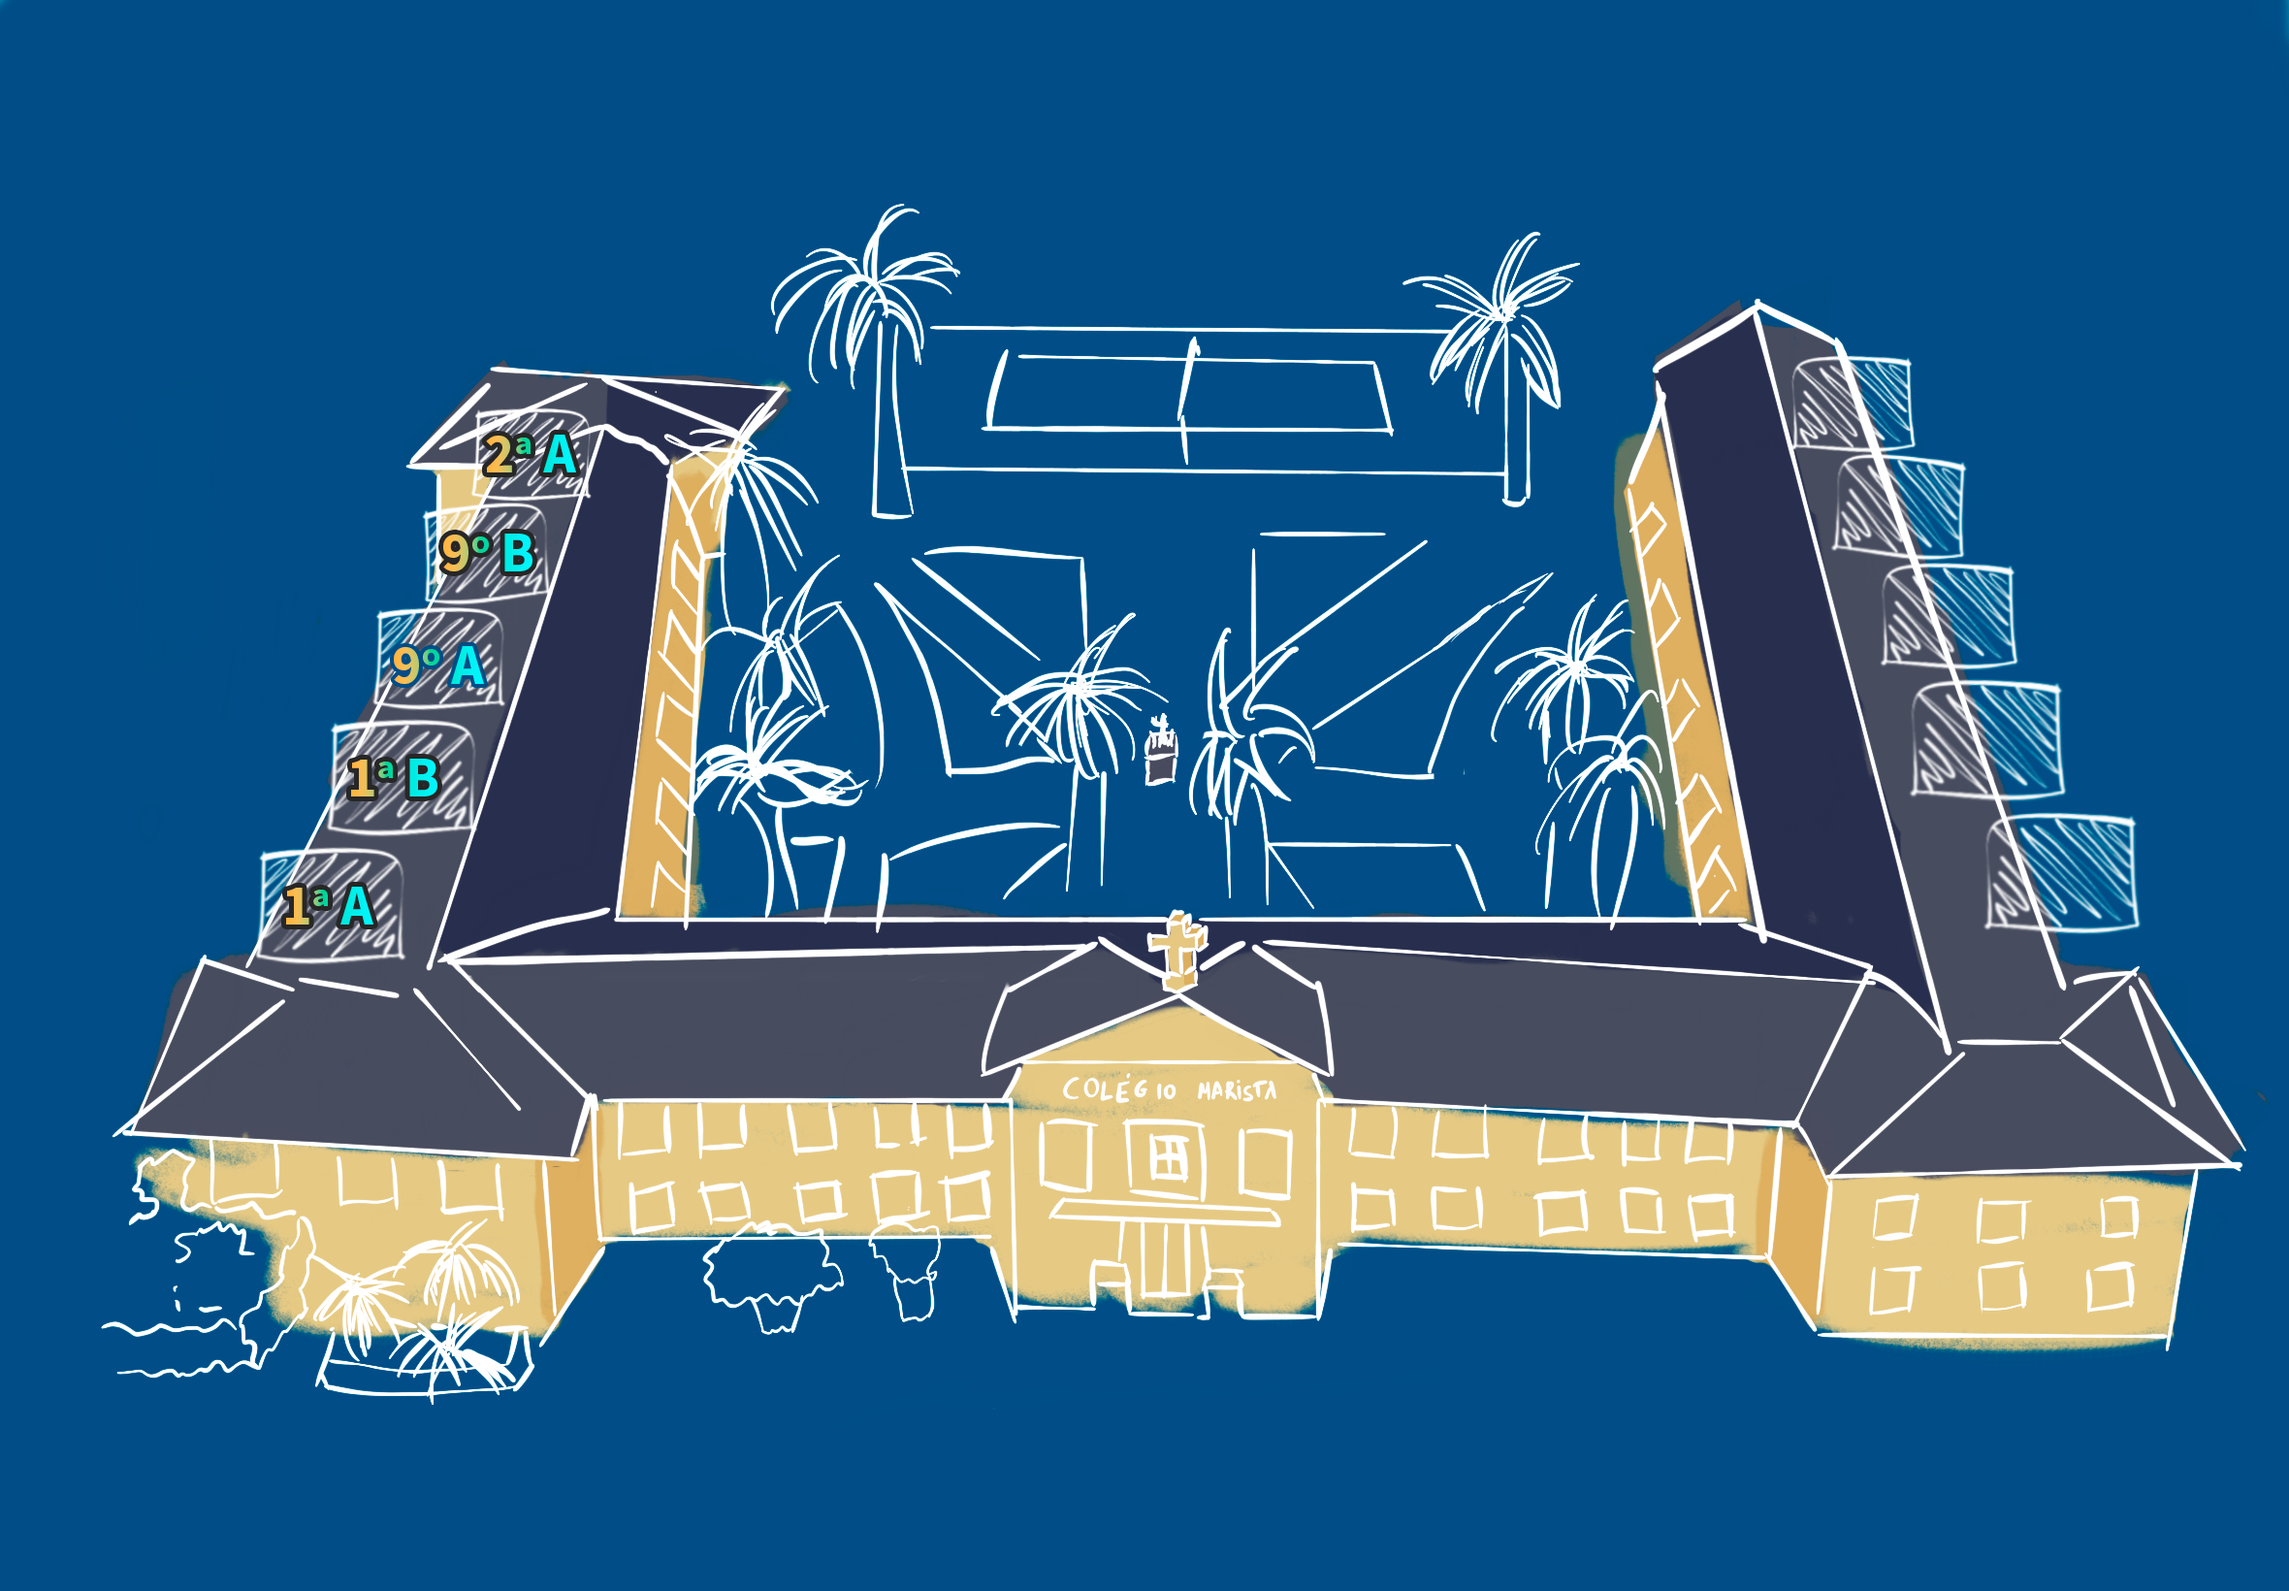
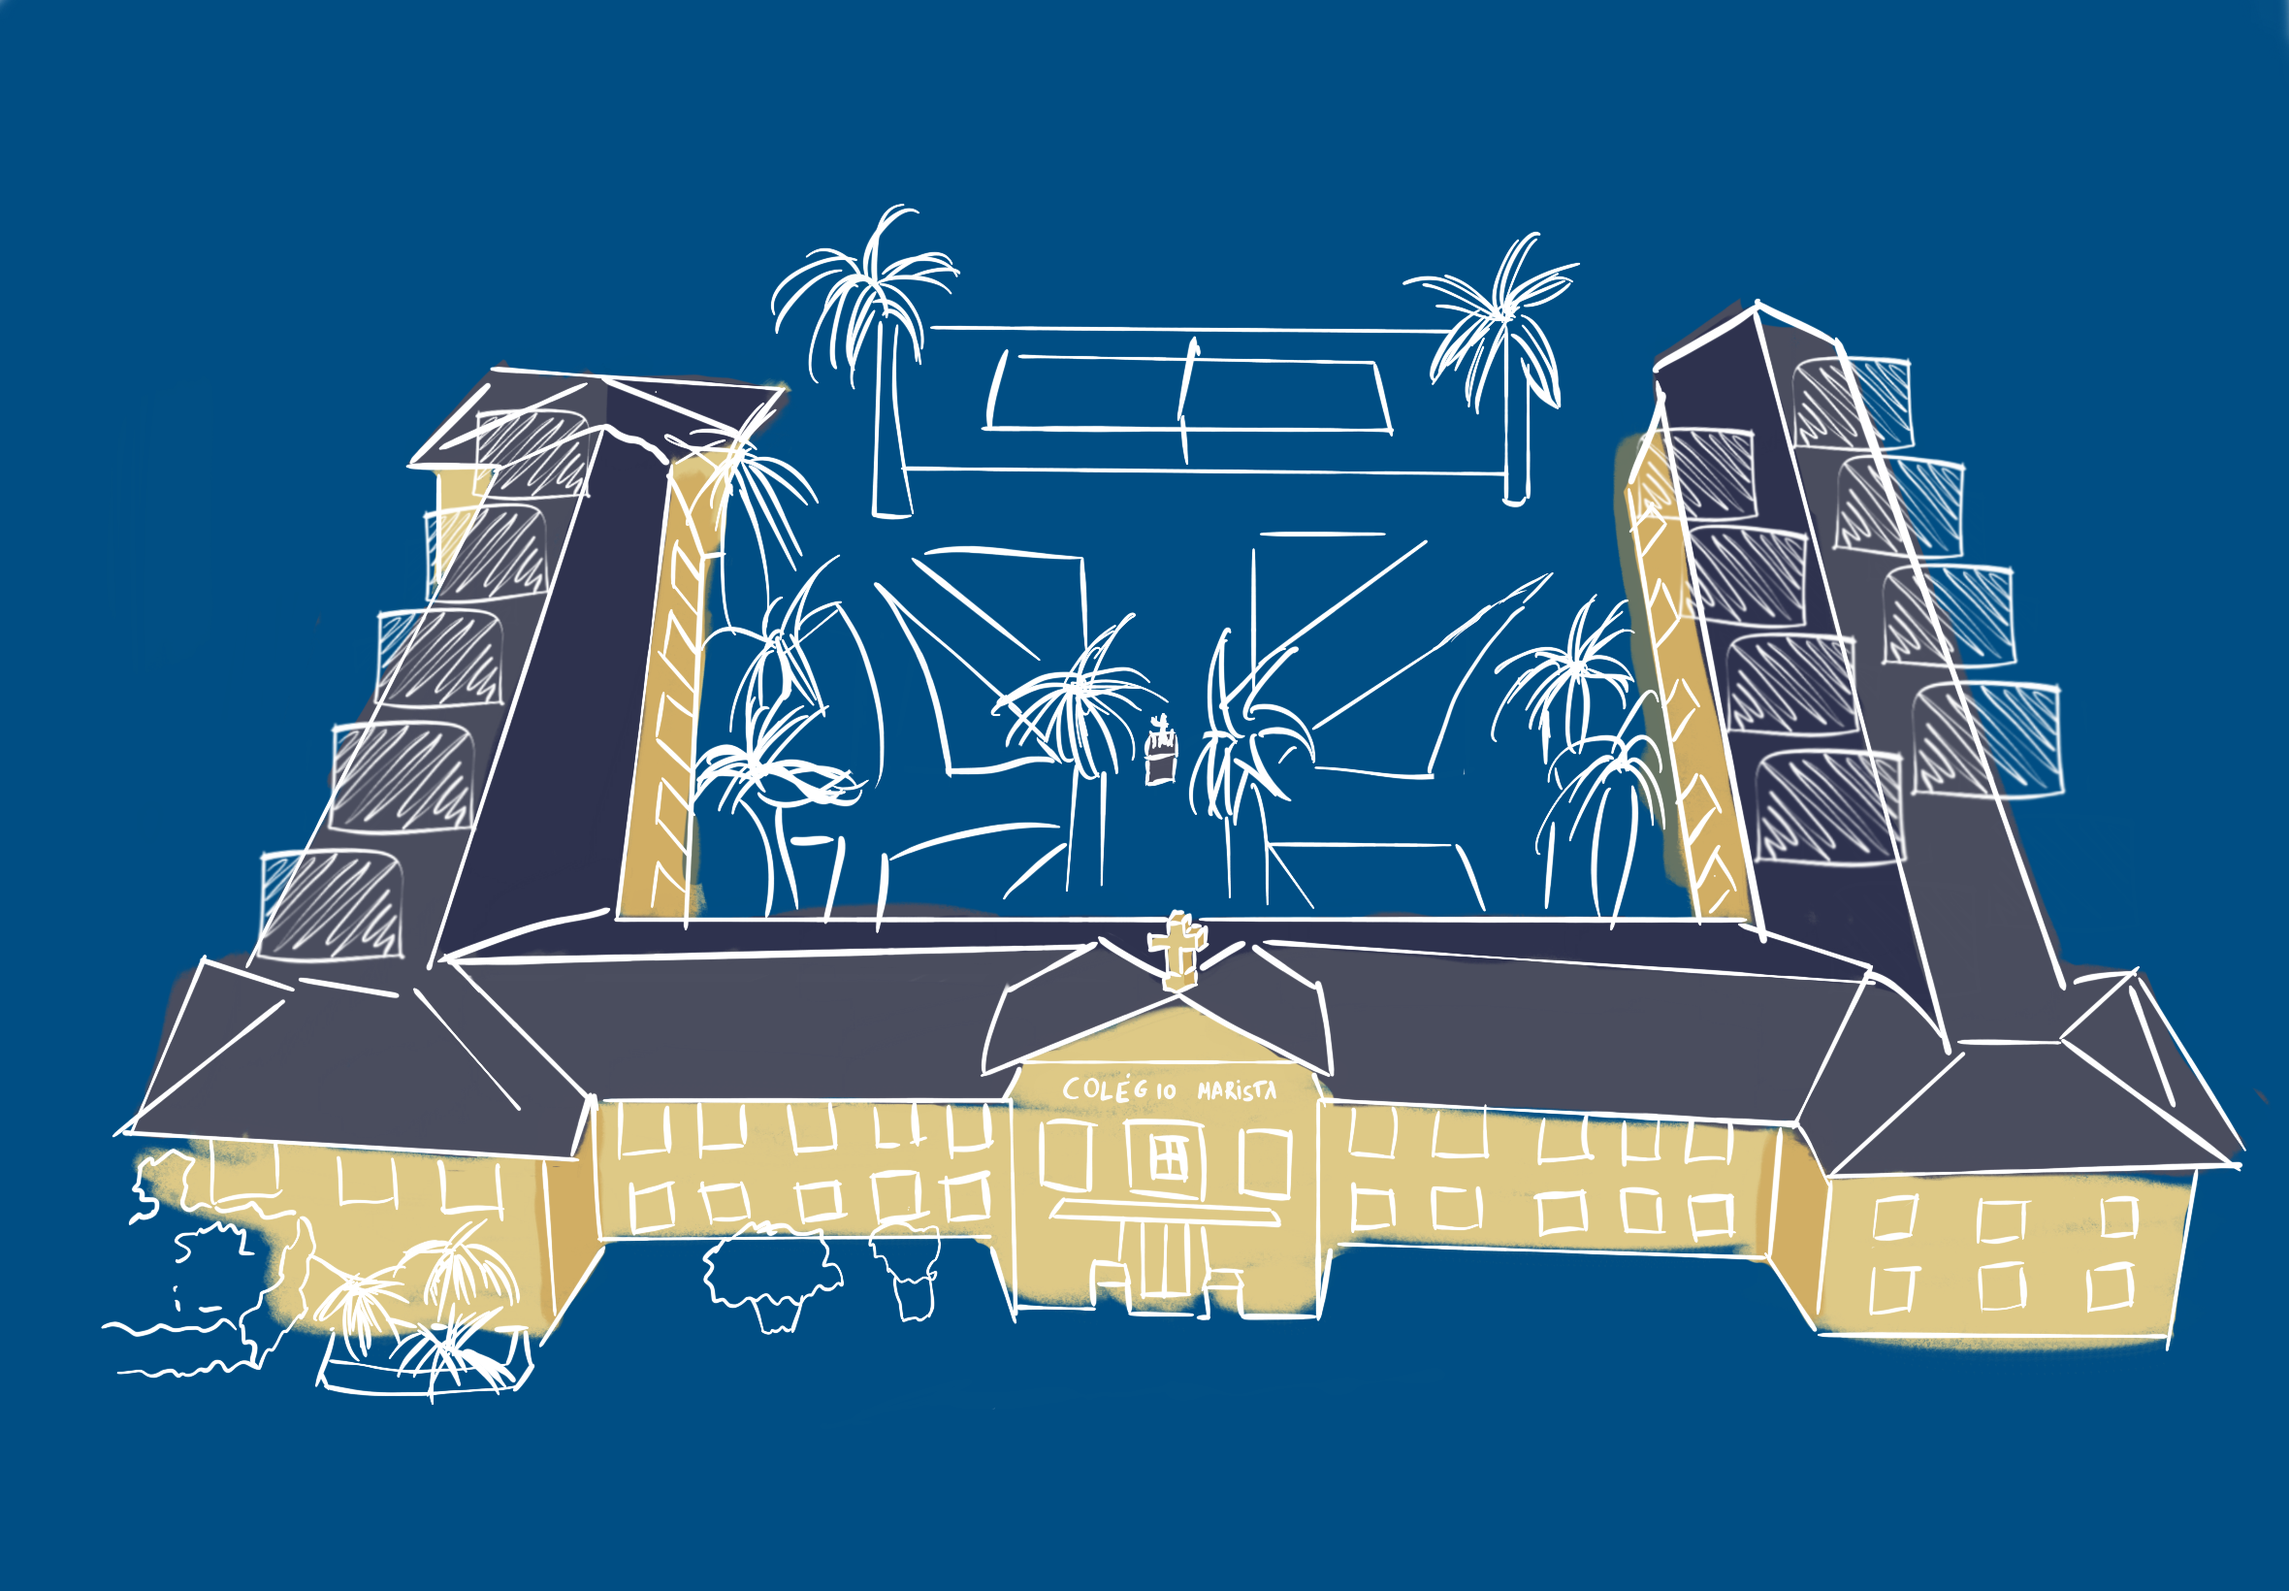
a lot of things

diff --git a/index.html b/index.html
@@ -17,6 +17,14 @@
   <area target="" alt="9a" title="9a" href="arquivos/9a.html" coords="389,631,516,719" shape="rect">
   <area target="" alt="1b" title="1b" href="arquivos/1b.html" coords="347,742,485,848" shape="rect">
   <area target="" alt="1a" title="1a" href="arquivos/1a.html" coords="268,879,408,984" shape="rect">
+  <area target="" alt="5a" title="5a" href="#" coords="1851,370,1975,458" shape="rect">
+  <area target="" alt="5b" title="5b" href="#" coords="1694,445,1813,529" shape="rect">
+  <area target="" alt="6a" title="6a" href="#" coords="1897,473,2023,567" shape="rect">
+  <area target="" alt="6b" title="6b" href="#" coords="1742,549,1861,640" shape="rect">
+  <area target="" alt="7a" title="7a" href="#" coords="1942,587,2084,681" shape="rect">
+  <area target="" alt="7b" title="7b" href="#" coords="1778,661,1912,752" shape="rect">
+  <area target="" alt="8a" title="8a" href="#" coords="1978,711,2130,815" shape="rect">
+  <area target="" alt="8b" title="8b" href="#" coords="1813,777,1962,886" shape="rect">
 </map>
 
 <script src="https://unpkg.com/image-map/dist/image-map.js"></script>

diff --git a/style.css b/style.css
@@ -17,5 +17,5 @@ img {
   }
 
 a {
-  collor: #FFFFFF;
+  color: #FFFFFF;
 }
